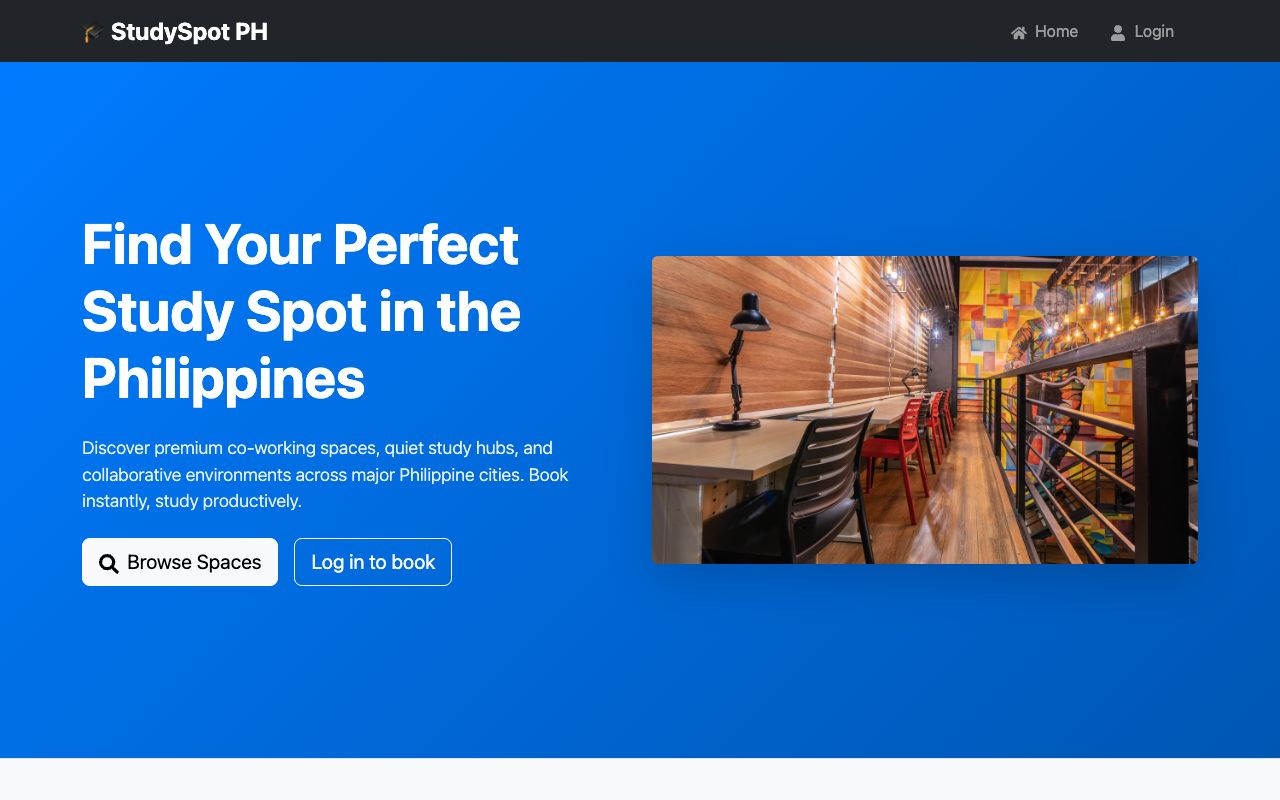
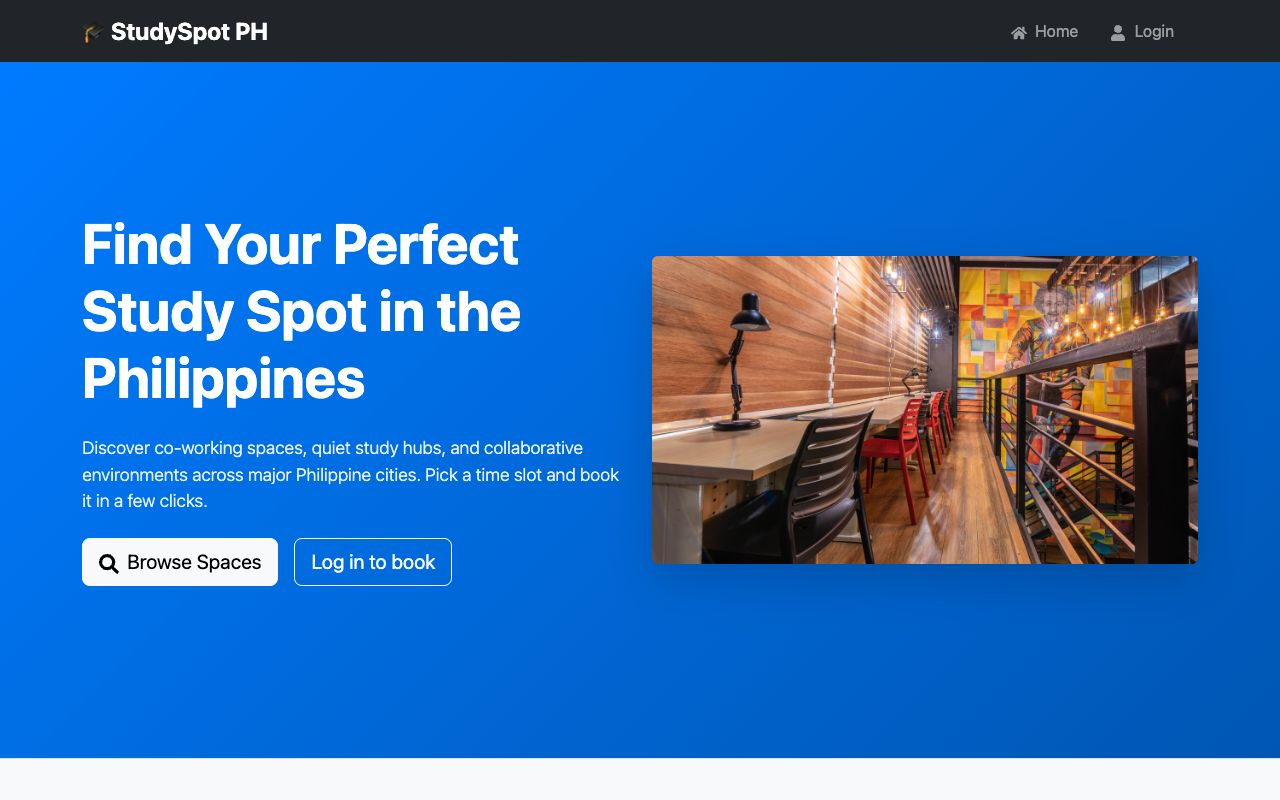
docs: update README for v2 changes
Add the page-not-found page, the pass billing note and the time-slot parser to the README, and retake the home screenshot with the new hero text.

Changed region(s): [[0.0625, 0.5312, 0.5, 0.6562]]

diff --git a/README.md b/README.md
@@ -27,6 +27,7 @@ Log in with any name and email to try booking. The login is simulated and all da
 - Protected route for the dashboard
 - Bookings kept in the browser's `localStorage`
 - Responsive layout for phone, tablet and desktop
+- Page not found page for unknown addresses and unknown space ids
 
 ## Tech stack
 
@@ -37,17 +38,18 @@ Log in with any name and email to try booking. The login is simulated and all da
 | Forms | React Hook Form + Yup |
 | Styling | Bootstrap 5, react-icons, small per-component CSS files |
 | State | Context API (`AuthContext`, `BookingContext`) + a `useLocalStorage` hook |
-| Tests | Vitest (unit tests for the booking rules) |
+| Tests | Vitest (unit tests for the booking rules, quick time slots and home page stats) |
 | Hosting | Vercel |
 
 ## Booking rules
 
-The rules live as plain functions in [`src/utils/bookingTime.js`](src/utils/bookingTime.js), with unit tests next to them.
+The rules live as plain functions in [`src/utils/bookingTime.js`](src/utils/bookingTime.js), and the quick time slots are read by [`src/utils/timeSlots.js`](src/utils/timeSlots.js). Unit tests sit next to both.
 
 - **Billing:** every started hour is billed. 1h 45m is billed as 2 hours. Total = billed hours × hourly rate × guests.
 - **Start and end:** the start time and end time must be different.
 - **Overlap:** a new booking is rejected if it overlaps any confirmed booking for the same space, by any user, on any date. Back-to-back bookings are allowed (one ends at 13:00, the next starts at 13:00).
 - **Overnight:** an end time earlier than the start time means the booking runs into the next day. This is only allowed for spaces open 24/7, and overnight bookings are included in the overlap check.
+- **Passes:** pass-style slots are billed the same way (hourly rate × hours × guests), so Full Day (24 hours) at ₱500/hour is ₱12,000 per guest.
 
 ## Run locally
 
@@ -63,7 +65,7 @@ npm run lint     # run ESLint
 
 ## Deployment
 
-The app is deployed on Vercel as a static site. [`vercel.json`](vercel.json) rewrites every path to `index.html`, so direct links such as `/space/1` work.
+The app is deployed on Vercel as a static site. [`vercel.json`](vercel.json) rewrites every path to `index.html`, so direct links such as `/space/1` work. Addresses the app does not know show its Page not found page.
 
 ## Known limitations
 
